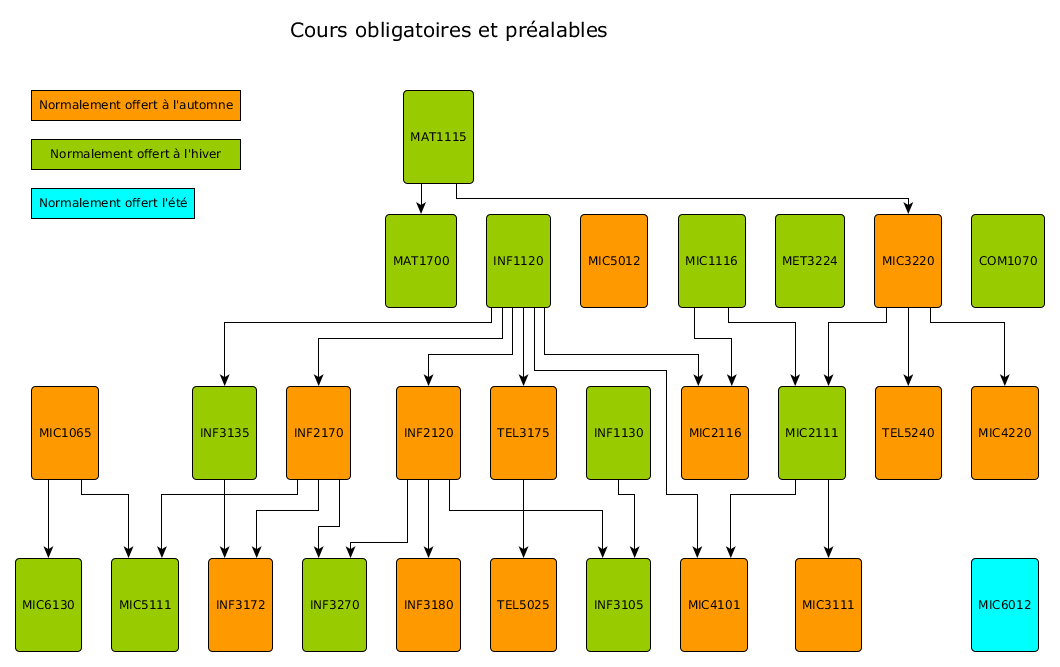
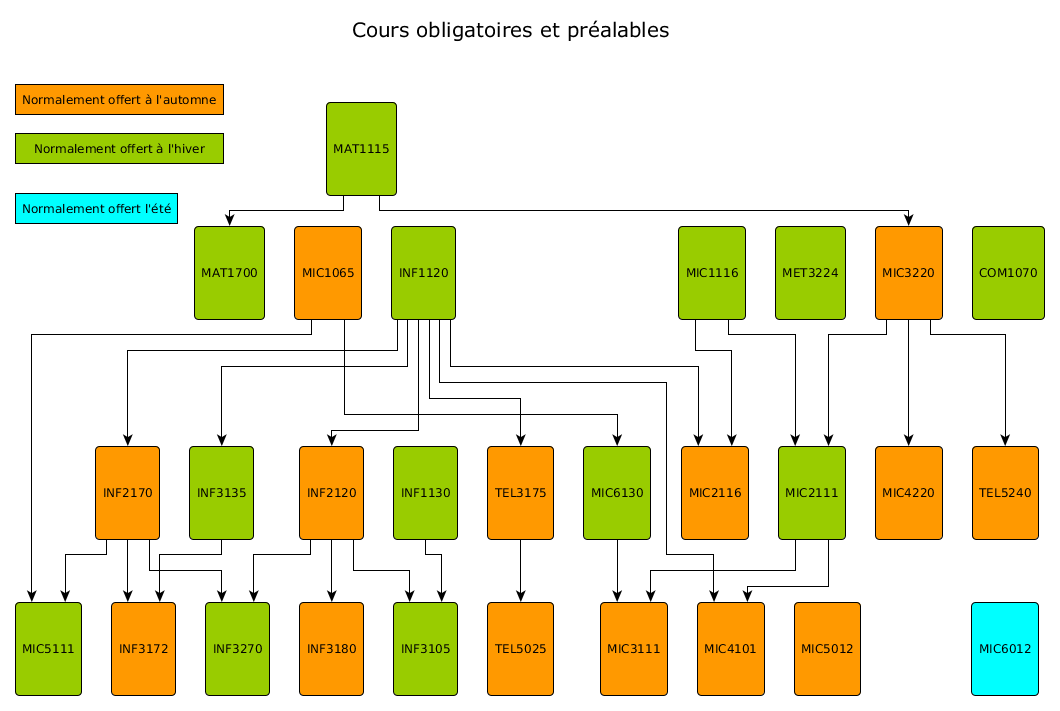
graphe avec prealables corrige 2 cours et ajout de tel3175

diff --git a/index.html b/index.html
@@ -334,10 +334,12 @@
 <h4 id="mic2116-projet-intégrateur-1-1-crédit">MIC2116 Projet intégrateur 1 (1 crédit)</h4>
 <p>La réalisation de ce premier projet intégrateur permet aux étudiants de s’initier à la conception de systèmes informatique et électronique. Cette initiation au développement d’un système simple leur permettra également de mieux comprendre les matières traitées dans plusieurs cours subséquents touchant à l’analyse de circuits, au traitement numérique des signaux, etc.</p>
 <p>Chaque étudiant doit œuvrer dans l’objectif de développer un projet dont les spécifications auront été établies lors du cours préalable MIC1116 Électronique pratique. Le projet permet d’initier les étudiants à la résolution de problèmes, l’organisation du travail et à développer l’autonomie. Il permet également aux étudiants de mettre en pratique les notions acquises au cours du premier trimestre, notamment dans les cours préalables. Les progrès dans la réalisation d’un prototype seront documentés régulièrement. La production finale mènera à la rédaction d’un rapport technique, la production d’une vidéo et une publication sur un forum spécialisé. Les réalisations des étudiants seront consignées dans un porte-folio professionnel.</p>
-<p>Préalables académiques: MIC1116 Électronique pratique</p>
+<p>Modalité d'enseignement</p>
+<p>Ce projet intégrateur sera supervisé par un professeur tout au long du trimestre.</p>
+<p>Préalables académiques: INF1120 Programmation I; MIC1116 Électronique pratique</p>
 <h4 id="mic3111-projet-intégrateur-2-1-crédit">MIC3111 Projet intégrateur 2 (1 crédit)</h4>
 <p>La réalisation de ce deuxième projet intégrateur permet aux étudiants de mettre en pratique les connaissances acquises au cours des premiers trimestres du programme. Chaque étudiant doit œuvrer dans l’objectif de développer un système complexe intégrant plusieurs composantes et dont les spécifications auront été établies lors du cours préalable MIC2111 Analyse de circuits. Le projet permet d’initier les étudiants au développement de spécifications, et de renforcer leurs habiletés méthodologiques, de résolution de problèmes et d’organisation du travail. Les progrès dans la réalisation d’un prototype seront documentés régulièrement. La production finale mènera à la rédaction d’un rapport technique, la production d’une vidéo et une publication sur un forum spécialisé. Les réalisations des étudiants seront consignées dans un porte-folio professionnel.</p>
-<p>Préalables académiques: MIC2111 Analyse de circuits</p>
+<p>Préalables académiques: MIC2111 Analyse de circuits; MIC6130 Circuits intégrés programmables</p>
 <h4 id="mic3220-signaux-et-systèmes">MIC3220 Signaux et systèmes</h4>
 <p>Représentation d'un signal et d'un système. Systèmes continus et systèmes discrets. Entrées, sorties, état d'un système. Systèmes linéaires. Analyse des signaux: série de Fourier; transformée de Fourier; énergie d'un signal; fonction densité spectrale; signaux échantillonnés; transformée de Fourier rapide; théorème d'échantillonnage. Réponse temporelle et fréquentielle d'un système linéaire. Fonction de transfert. Convolution. Application à la modulation et à l'échantillonnage. Transformée Z. Conditions de stabilité d'un système. Exercices dirigés et travaux pratiques en laboratoire (2 heures/semaine).</p>
 <p>Préalables académiques: MAT1115 Calcul I</p>
@@ -347,7 +349,7 @@
 <li><p>connaître les différentes étapes de conception d'un circuit;</p></li>
 <li><p>comprendre le rôle et le fonctionnement des principaux dispositifs semiconducteurs avec les différents modèles liés à chaque composant: diode, transistors bipolaire et à effet de champ;</p></li>
 <li><p>analyser les comportements aux basses et hautes fréquences des amplificateurs à un ou plusieurs étages;</p></li>
-<li><p>connaître l'amplificateur opérationnel et ses caractéristiques idéales et rélles;</p></li>
+<li><p>connaître l'amplificateur opérationnel et ses caractéristiques idéales et réelles;</p></li>
 <li><p>comprendre les différents types de rétroaction;</p></li>
 <li><p>savoir optimiser la vitesse et la consommation énergétique des circuits logiques CMOS au niveau des transistors.</p></li>
 </ul>
@@ -389,6 +391,8 @@
 <p>Préalables académiques: MIC1116 Électronique pratique</p>
 <h4 id="mic6012-stage-dintégration">MIC6012 Stage d'intégration</h4>
 <p>Cette activité permet aux étudiants de compléter leur formation en milieu de travail en effectuant un stage d'intégration d'au moins quatre mois dans un milieu de travail à l'extérieur de l'Université. Les activités du stage doivent mettre en applications les compétences acquises lors de la formation académique dans le programme. Un rapport de stage permet de sanctionner la réussite de l'activité. Les réalisations des étudiants seront consignées dans son porte-folio professionnel. Cette activité est évaluée selon la notation succès ou échec.</p>
+<p>Conditions d'accès</p>
+<p>Pour pouvoir être inscrit à cette activité, l'étudiant doit avoir complété ou être en voie de compléter au moins 75 crédits au programme avec une moyenne égale ou supérieure à 2,5 sur 4,3. Le stage se déroule normalement lors du dernier trimestre d'été du cheminement. L'étudiant doit avoir identifié le lieu du stage et complété son inscription à cette activité au cours du trimestre d'automne précédant le stage.</p>
 <h4 id="mic6130-circuits-intégrés-programmables">MIC6130 Circuits intégrés programmables</h4>
 <p>Ce cours vise à permettre de faire l'étude des différents circuits intégrés programmables et de leurs applications dans la conception des systèmes électroniques; de maîtriser les outils CAO pour la synthèse et la programmation des circuits intégrés programmables. Étude des différents circuits intégrés programmables et de leurs applications. Circuits ASIC, PAL, FPLA, PLD, matrice de portes programmable - FPGA. Théorie et outils CAO pour la synthèse et la programmation des circuits intégrés programmables. Conception de systèmes avec des composants programmables. Travaux pratiques en laboratoire (2 heures/semaine).</p>
 <p>Préalables académiques: MIC1065 Circuits logiques</p>
@@ -407,6 +411,13 @@
 <p>Ce cours a pour objectif de susciter la réflexion sur les problèmes qu'on aperçoit lorsqu'on observe l'activité technoscientifique contemporaine du point de vue d'une philosophie de l'homme et de la société puis du point de vue de l'éthique. Les aspects suivants de la recherche scientifique et de l'activité technologique pourront être abordés: leur institutionnalisation, leur taux de croissance, leur impact sur la vie privée, sociale, politique ou économique; les valeurs qui les inspirent, celles qu'elles véhiculent; différence entre leurs pratiques réelles et leur image dans les médias de communication; leur place dans la gestion des grands ensembles sociaux.</p>
 <h4 id="soc6210-sociologie-de-la-technologie">SOC6210 Sociologie de la technologie</h4>
 <p>L'émergence et l'institutionnalisation de la technologie. La science et la technologie: leurs rapports mutuels et leur différenciation. Le progrès technique dans ses dimensions utopique et idéologique. La technologie et les techniques dans leurs rapports avec la structure économique, notamment comme produit des rapports sociaux de production et comme facteur de division technique et sociale du travail. Le développement technologique et ses rapports avec le pouvoir politique et l'appareil militaro-industriel. Les techniciens comme catégorie sociale et leur place dans les rapports sociaux. Les formes nouvelles de l'automation (v.g. robotique, bureautique, télématique, etc.) et leurs répercussions sociales.</p>
+<h4 id="tel3175---interconnexions-et-communications">TEL3175 - Interconnexions et communications</h4>
+<p>Description</p>
+<p>Introduire les concepts fondamentaux et les mécanismes de base régissant l'interconnexion et la communication entre systèmes informatiques. Ce cours vise à étudier les réseaux de communications en présentant les techniques et équipements de base permettant l'interconnexion, l'accès au support de transmission, la fiabilité et l'efficacité de transmission. Le cours aborde la couche physique, le codage de canal, la modulation, la couche d'accès multiple, la couche de liaison de données, les mécanismes de contrôle d'erreurs de transmission, le partage des ressources, les réseaux locaux et sans fil.</p>
+<p>Modalité d'enseignement</p>
+<p>Trois heures de cours par semaine. Deux heures de laboratoires par semaine.</p>
+<p>Préalables académiques:</p>
+<p>INF1105 - Introduction à la programmation scientifique ou INF1120 - Programmation I</p>
 <h4 id="tel5025-systèmes-de-télécommunications-embarquées">TEL5025 Systèmes de télécommunications embarquées</h4>
 <p>Familiariser l’étudiant avec les systèmes de réseaux embarqués et les réseaux de senseurs et apprendre les notions de conception d’un réseau embarqué. À la fin de ce cours, l'étudiant devra être en mesure de:</p>
 <ul>
@@ -716,6 +727,8 @@
 </table>
 </div>
 
+<h4 id="préalables">Préalables</h4>
+<p>Glisser la souris sur les cases pour afficher les titres des différentes activités</p>
 
 <script type="text/javascript">
 tooltip = null;
@@ -824,38 +837,38 @@ tooltip.style.display = "none";
 <div class="tooltip" id="n31">Normalement offert l'été</div>
 
 <map name="image1_1">
-  <area shape="rect" coords="31,187,194,217" alt="" onmouseover="showTooltip('n31')" onmouseout="hideTooltip()"/>
-  <area shape="rect" coords="31,138,240,168" alt="" onmouseover="showTooltip('n30')" onmouseout="hideTooltip()"/>
-  <area shape="rect" coords="31,90,240,120" alt="" onmouseover="showTooltip('n29')" onmouseout="hideTooltip()"/>
-  <area shape="rect" coords="324,17,593,47" alt="" onmouseover="showTooltip('n28')" onmouseout="hideTooltip()"/>
-  <area shape="rect" coords="971,558,1038,651" alt="" onmouseover="showTooltip('n27')" onmouseout="hideTooltip()"/>
-  <area shape="rect" coords="875,386,941,479" alt="" onmouseover="showTooltip('n26')" onmouseout="hideTooltip()"/>
-  <area shape="rect" coords="490,558,556,651" alt="" onmouseover="showTooltip('n25')" onmouseout="hideTooltip()"/>
-  <area shape="rect" coords="580,214,647,307" alt="" onmouseover="showTooltip('n24')" onmouseout="hideTooltip()"/>
-  <area shape="rect" coords="111,558,178,651" alt="" onmouseover="showTooltip('n23')" onmouseout="hideTooltip()"/>
-  <area shape="rect" coords="775,214,844,307" alt="" onmouseover="showTooltip('n22')" onmouseout="hideTooltip()"/>
-  <area shape="rect" coords="385,214,456,307" alt="" onmouseover="showTooltip('n21')" onmouseout="hideTooltip()"/>
-  <area shape="rect" coords="971,386,1038,479" alt="" onmouseover="showTooltip('n20')" onmouseout="hideTooltip()"/>
-  <area shape="rect" coords="680,558,747,651" alt="" onmouseover="showTooltip('n19')" onmouseout="hideTooltip()"/>
-  <area shape="rect" coords="795,558,861,651" alt="" onmouseover="showTooltip('n18')" onmouseout="hideTooltip()"/>
-  <area shape="rect" coords="396,558,460,651" alt="" onmouseover="showTooltip('n17')" onmouseout="hideTooltip()"/>
-  <area shape="rect" coords="208,558,272,651" alt="" onmouseover="showTooltip('n16')" onmouseout="hideTooltip()"/>
-  <area shape="rect" coords="15,558,81,651" alt="" onmouseover="showTooltip('n15')" onmouseout="hideTooltip()"/>
-  <area shape="rect" coords="778,386,845,479" alt="" onmouseover="showTooltip('n14')" onmouseout="hideTooltip()"/>
-  <area shape="rect" coords="302,558,366,651" alt="" onmouseover="showTooltip('n13')" onmouseout="hideTooltip()"/>
-  <area shape="rect" coords="192,386,256,479" alt="" onmouseover="showTooltip('n12')" onmouseout="hideTooltip()"/>
-  <area shape="rect" coords="586,558,650,651" alt="" onmouseover="showTooltip('n11')" onmouseout="hideTooltip()"/>
-  <area shape="rect" coords="490,386,556,479" alt="" onmouseover="showTooltip('n10')" onmouseout="hideTooltip()"/>
-  <area shape="rect" coords="874,214,941,307" alt="" onmouseover="showTooltip('n9')" onmouseout="hideTooltip()"/>
-  <area shape="rect" coords="681,386,748,479" alt="" onmouseover="showTooltip('n8')" onmouseout="hideTooltip()"/>
-  <area shape="rect" coords="31,386,98,479" alt="" onmouseover="showTooltip('n7')" onmouseout="hideTooltip()"/>
-  <area shape="rect" coords="286,386,350,479" alt="" onmouseover="showTooltip('n6')" onmouseout="hideTooltip()"/>
-  <area shape="rect" coords="396,386,460,479" alt="" onmouseover="showTooltip('n5')" onmouseout="hideTooltip()"/>
-  <area shape="rect" coords="678,214,745,307" alt="" onmouseover="showTooltip('n4')" onmouseout="hideTooltip()"/>
-  <area shape="rect" coords="403,90,473,183" alt="" onmouseover="showTooltip('n3')" onmouseout="hideTooltip()"/>
-  <area shape="rect" coords="586,386,650,479" alt="" onmouseover="showTooltip('n2')" onmouseout="hideTooltip()"/>
-  <area shape="rect" coords="486,214,550,307" alt="" onmouseover="showTooltip('n1')" onmouseout="hideTooltip()"/>
-  <area shape="rect" coords="971,214,1044,307" alt="" onmouseover="showTooltip('n0')" onmouseout="hideTooltip()"/>
+  <area shape="rect" coords="15,193,177,223" alt="" onmouseover="showTooltip('n31')" onmouseout="hideTooltip()"/>
+  <area shape="rect" coords="15,133,223,163" alt="" onmouseover="showTooltip('n30')" onmouseout="hideTooltip()"/>
+  <area shape="rect" coords="15,84,223,114" alt="" onmouseover="showTooltip('n29')" onmouseout="hideTooltip()"/>
+  <area shape="rect" coords="386,17,655,47" alt="" onmouseover="showTooltip('n28')" onmouseout="hideTooltip()"/>
+  <area shape="rect" coords="971,602,1038,695" alt="" onmouseover="showTooltip('n27')" onmouseout="hideTooltip()"/>
+  <area shape="rect" coords="972,446,1038,539" alt="" onmouseover="showTooltip('n26')" onmouseout="hideTooltip()"/>
+  <area shape="rect" coords="487,602,553,695" alt="" onmouseover="showTooltip('n25')" onmouseout="hideTooltip()"/>
+  <area shape="rect" coords="794,602,860,695" alt="" onmouseover="showTooltip('n24')" onmouseout="hideTooltip()"/>
+  <area shape="rect" coords="15,602,81,695" alt="" onmouseover="showTooltip('n23')" onmouseout="hideTooltip()"/>
+  <area shape="rect" coords="775,226,845,319" alt="" onmouseover="showTooltip('n22')" onmouseout="hideTooltip()"/>
+  <area shape="rect" coords="194,226,264,319" alt="" onmouseover="showTooltip('n21')" onmouseout="hideTooltip()"/>
+  <area shape="rect" coords="875,446,942,539" alt="" onmouseover="showTooltip('n20')" onmouseout="hideTooltip()"/>
+  <area shape="rect" coords="697,602,764,695" alt="" onmouseover="showTooltip('n19')" onmouseout="hideTooltip()"/>
+  <area shape="rect" coords="600,602,667,695" alt="" onmouseover="showTooltip('n18')" onmouseout="hideTooltip()"/>
+  <area shape="rect" coords="299,602,363,695" alt="" onmouseover="showTooltip('n17')" onmouseout="hideTooltip()"/>
+  <area shape="rect" coords="111,602,175,695" alt="" onmouseover="showTooltip('n16')" onmouseout="hideTooltip()"/>
+  <area shape="rect" coords="583,446,650,539" alt="" onmouseover="showTooltip('n15')" onmouseout="hideTooltip()"/>
+  <area shape="rect" coords="778,446,845,539" alt="" onmouseover="showTooltip('n14')" onmouseout="hideTooltip()"/>
+  <area shape="rect" coords="205,602,269,695" alt="" onmouseover="showTooltip('n13')" onmouseout="hideTooltip()"/>
+  <area shape="rect" coords="189,446,253,539" alt="" onmouseover="showTooltip('n12')" onmouseout="hideTooltip()"/>
+  <area shape="rect" coords="393,602,457,695" alt="" onmouseover="showTooltip('n11')" onmouseout="hideTooltip()"/>
+  <area shape="rect" coords="487,446,553,539" alt="" onmouseover="showTooltip('n10')" onmouseout="hideTooltip()"/>
+  <area shape="rect" coords="875,226,942,319" alt="" onmouseover="showTooltip('n9')" onmouseout="hideTooltip()"/>
+  <area shape="rect" coords="681,446,748,539" alt="" onmouseover="showTooltip('n8')" onmouseout="hideTooltip()"/>
+  <area shape="rect" coords="294,226,361,319" alt="" onmouseover="showTooltip('n7')" onmouseout="hideTooltip()"/>
+  <area shape="rect" coords="95,446,159,539" alt="" onmouseover="showTooltip('n6')" onmouseout="hideTooltip()"/>
+  <area shape="rect" coords="299,446,363,539" alt="" onmouseover="showTooltip('n5')" onmouseout="hideTooltip()"/>
+  <area shape="rect" coords="678,226,745,319" alt="" onmouseover="showTooltip('n4')" onmouseout="hideTooltip()"/>
+  <area shape="rect" coords="326,102,396,195" alt="" onmouseover="showTooltip('n3')" onmouseout="hideTooltip()"/>
+  <area shape="rect" coords="393,446,457,539" alt="" onmouseover="showTooltip('n2')" onmouseout="hideTooltip()"/>
+  <area shape="rect" coords="391,226,455,319" alt="" onmouseover="showTooltip('n1')" onmouseout="hideTooltip()"/>
+  <area shape="rect" coords="972,226,1044,319" alt="" onmouseover="showTooltip('n0')" onmouseout="hideTooltip()"/>
 </map>
 
 
